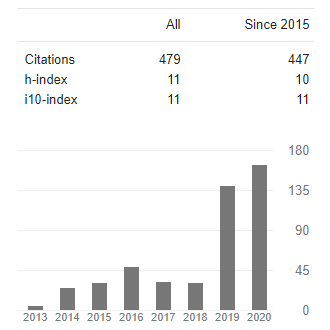
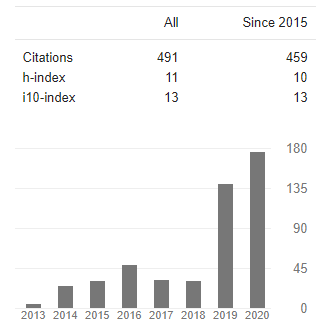
update_09_09_2020

diff --git a/research.html b/research.html
@@ -23,7 +23,7 @@
 		</strong>
     </blockquote> 
 	<br/>
-    My Google Scholar Snapshot <b>(August 2020)</b>
+    My Google Scholar Snapshot <b>(September 2020)</b>
 	<br/>
 	<br/>
 	<img src="images/scholarstat.png" width="305" height="295" >
